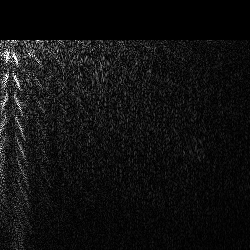
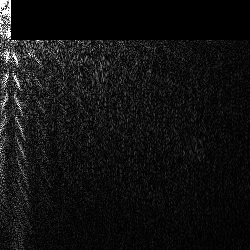
added examples

Changed region(s): [[0.0, 0.0, 0.056, 0.168]]

diff --git a/main.c b/main.c
@@ -46,7 +46,7 @@ int main(){
     clock_t begin = clock();
     // generate_bases(8, 16);
 
-    const char *name = "gorilla"; // Base name for images
+    const char *name = "pavimento"; // Base name for images
     const char *ext = ".png"; // Extension for images
     char filename[MAX_C];
     sprintf(filename, "%s%s", name, ext);
@@ -81,14 +81,14 @@ int main(){
 //     save_array_to_file(spectrum_bin_name, freq_img, width * height);
 
     // use this to load a spectrum from .bin file
-    int width = 500, height = 500;
+    int width = 250, height = 250;
     double *freq_img = malloc(width * height * sizeof(double));
-    load_array_from_file("gorilla_spectrum.bin", freq_img, width * height);
+    load_array_from_file("pavimento_spectrum.bin", freq_img, width * height);
 
     // modify spectrum
     for (int v=0; v<height; v++){
         for (int u=0; u<width; u++){
-            if (u*u + v*v < 50*50){
+            if (v<40 && u>10){
                 freq_img[u + v*width] = 0;
             }
         }

diff --git a/README.md b/README.md
@@ -7,8 +7,8 @@ Decription | Spectrum | Image
 original image | ![](gorilla_spectrum.png)  |  ![](gorilla_gray.png)
 no low frequencies | ![](gorilla_modified_spectrum.png) | ![](gorilla_output.png)
 original image | ![](pavimento_spectrum.png) | ![](pavimento_gray.png)
-vertical frequences removed | ![](pavimento_modified_spectrum1.png) | ![](pavimento_output1.png)
-horizontal frequences removed | ![](pavimento_modified_spectrum2.png) | ![](pavimento_output2.png)
+no high vertical frequencies | ![](pavimento_modified_spectrum1.png) | ![](pavimento_output1.png)
+no high horizontal frequencies | ![](pavimento_modified_spectrum2.png) | ![](pavimento_output2.png)
 original image | ![](pavimentozoom_spectrum.png) | ![](pavimentozoom_gray.png)
 original image | ![](g_spectrum.png)  |  ![](g_gray.png)
 ony low frequencies | ![](g_modified_spectrum0.png) | ![](g_output0.png)
